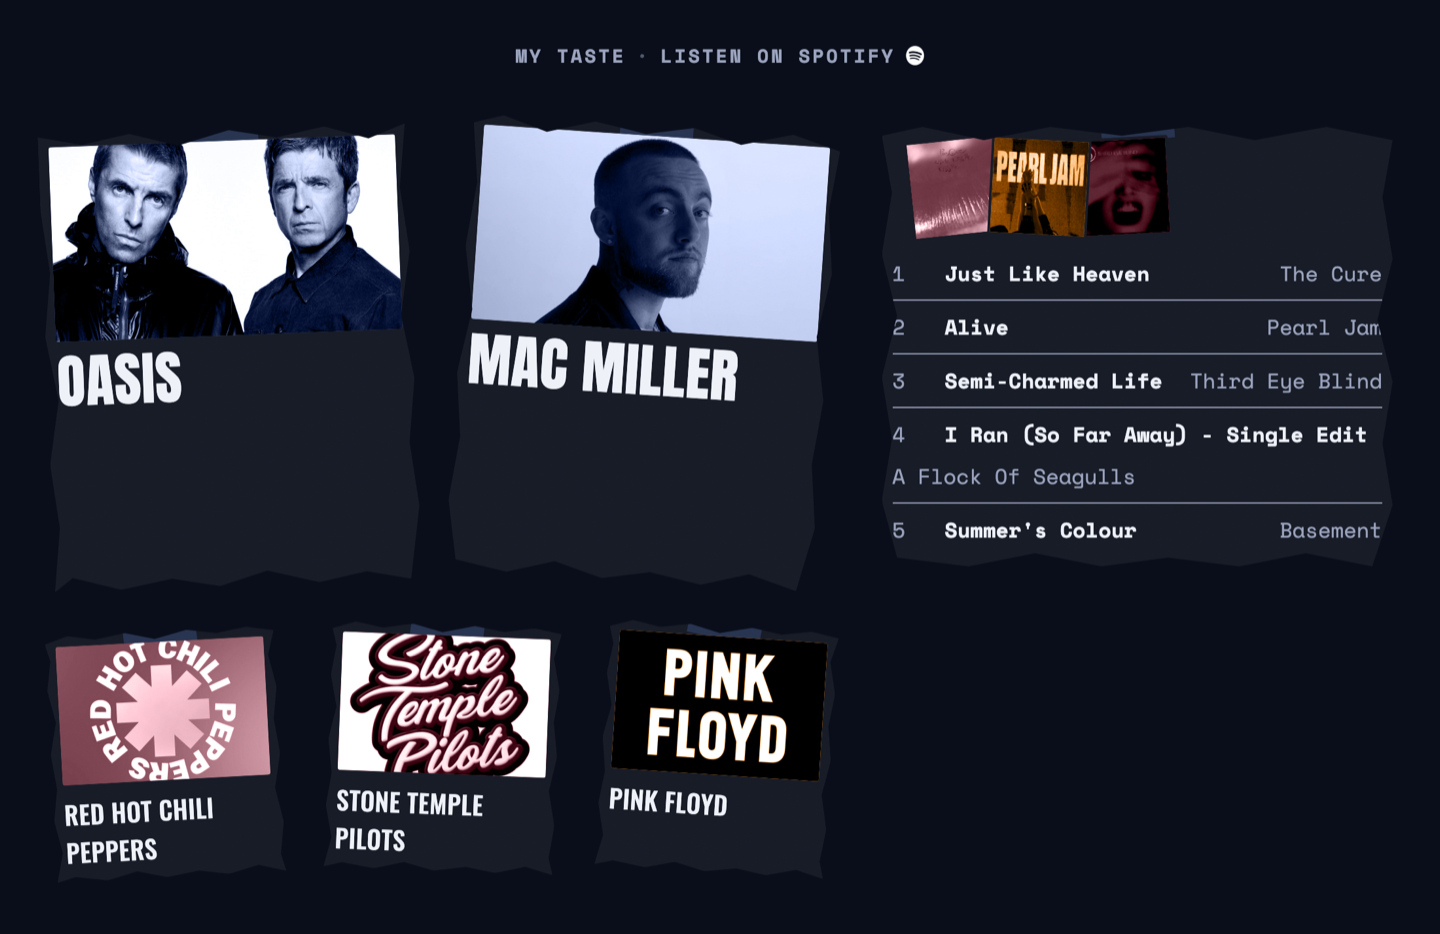
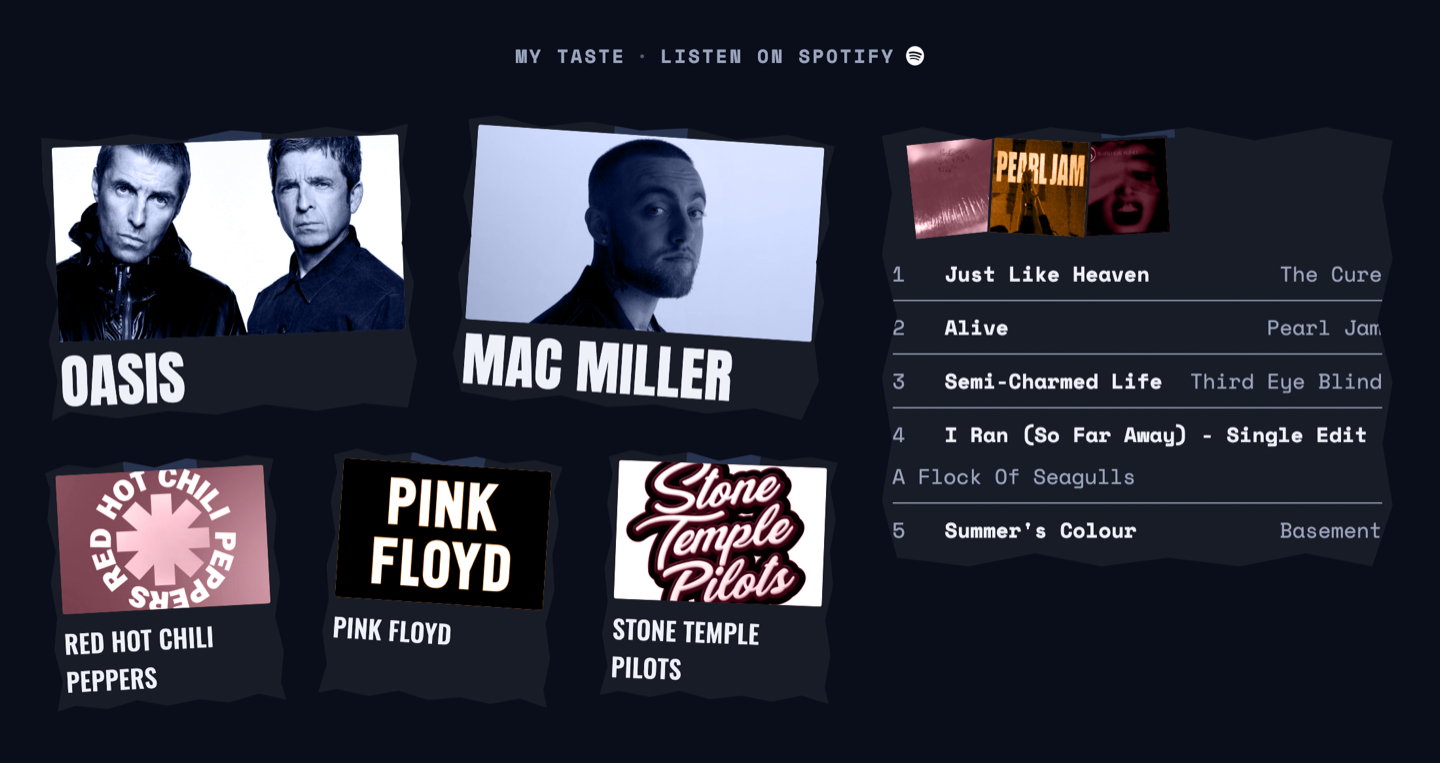
fix: #my-taste 139px dead space under each featured card (Stage 4, Task 3.7 follow-up)
Live report re-sent Task 3.7's own brief verbatim, adding one note:
"a large unused vertical gap between the headliner and the first
support card (Oasis -> Mac Miller)." Checked against the tree first -
Task 3.7 had already shipped (commit 8612655); the report's own
terminology describes the pre-restructure state, so the specific
relationship named didn't map onto the actual code. The underlying
observation was real though, just mis-described (the design-research
chat that writes these briefs has no repo access, so it likely
doesn't know 3.7 already landed).

Measured a real per-card content-vs-box breakdown instead of assuming
either way: each "featured" card's own box was 358px tall, but its
actual content (photo 159px + name 54px + padding) only needed ~220px.
139px of dead space under every artist name, every time.

Root cause: .my-taste-wall's grid-template-rows kept the OLD
headliner block's own per-row minimum (180px x2 = 360px floor) with
the stated reasoning "same card width proportion as before, no reason
to re-tune that number" - a real WIDTH observation used, incorrectly,
to justify not re-checking a completely different quantity, HEIGHT.
The old headliner's content had already grown past that floor on its
own; the new featured card's content never got close.

Fixed by dropping the row minimum to 90px, letting `auto` size off
real content instead of a copied number. Dead space fell from 139px
to 8px (the card's own intentional padding-bottom, not leftover
[…]

diff --git a/client/src/styles/main.scss b/client/src/styles/main.scss
@@ -2669,12 +2669,25 @@ html {
 .my-taste-wall {
   display: grid;
   grid-template-columns: repeat(6, 1fr);
-  // Zone A's two rows keep the old headliner block's own per-row minimum
-  // (180px) — same card width proportion as before (50% of the wall), so
-  // no reason to re-tune that number. Zone B's row uses a visibly smaller
-  // minimum (120px) — part of what reads as "clearly secondary," not just
-  // narrower columns with the same row height as Zone A.
-  grid-template-rows: minmax(180px, auto) minmax(180px, auto) minmax(120px, auto);
+  // Zone A's two rows were FIRST shipped keeping the old headliner block's
+  // own per-row minimum (180px), reasoning "same card width proportion as
+  // before, no reason to re-tune." That reasoning didn't hold up under
+  // measurement — the old headliner's real photo+name content had already
+  // grown past that 360px (2×180) floor on its own, so the min was never
+  // actually binding there. The new featured card's real content (a
+  // narrower-columned photo + the same name text) only needs ~220px total,
+  // well under that floor — so the unchanged 180px min was forcing each
+  // featured card ~139px taller than its own content, pure dead space
+  // below the artist name. Found by live measurement (a real per-card
+  // content-vs-box breakdown), not by eye — this is the exact "large
+  // unused vertical gap" a later live report flagged, and re-verifies it
+  // as still present after the Task 3.7 regroup that was supposed to
+  // absorb it structurally but, on its own, didn't touch this row-min at
+  // all. 90px lets `auto` do the actual sizing off real content instead of
+  // a copied number. Zone B's row min (120px) was independently re-checked
+  // against ITS OWN real content (~197px) at the same time — already well
+  // clear of that floor, not the source of any dead space, left unchanged.
+  grid-template-rows: minmax(90px, auto) minmax(90px, auto) minmax(120px, auto);
   grid-template-areas:
     "featured-1 featured-1 featured-1 featured-2 featured-2 featured-2"
     "featured-1 featured-1 featured-1 featured-2 featured-2 featured-2"

diff --git a/design-review/stage4-my-taste-concept.md b/design-review/stage4-my-taste-concept.md
@@ -85,7 +85,7 @@ everything else. Splitting keeps each task's risk isolated.
 | 3.5 | **Two columns** — restructure into wall (left) + crate (right) so total height is `max(wall, crate)`, not their sum. Setlist rebuilt as small torn "singles," not a list row | **DONE** 2026-08-15 |
 | 3.6 | **Refinement pass** — headliner less dominant, crate back to one plain list (Task 3.5's "singles" read too busy), duotone bug fixed (2 of `colorwayFor`'s 5 tokens read as plain gray on a photo) | **DONE** 2026-08-15 |
 | 3.8 | **Spotify link, clickable cards, straighten the setlist** — kicker links out to the real profile, every artist/track card is a real `<a>` to its own Spotify page, crate's rotation/jitter removed (torn edge/tape kept) | **DONE** 2026-08-15 |
-| 3.7 | **Three-zone restructure** — the wall's 1 headliner + 4 support cards regrouped into 2 "featured" (comparably sized to each other) + 3 "secondary" (clearly smaller) — hierarchy from tiers, not one card's raw size. Landed *after* 3.8, see note below | **DONE** 2026-08-15 |
+| 3.7 | **Three-zone restructure** — the wall's 1 headliner + 4 support cards regrouped into 2 "featured" (comparably sized to each other) + 3 "secondary" (clearly smaller) — hierarchy from tiers, not one card's raw size. Landed *after* 3.8, see note below. Follow-up 2026-08-17 fixed 139px of dead space under each featured card's name (a copied, unverified grid-row minimum) — see §10 | **DONE** 2026-08-15, follow-up 2026-08-17 |
 | 4 | **Motion** — entrance animation, parallax, reduced-motion fallback | Not started |
 | 5 | **Time-range switching** — UI for Spotify's `time_range` param (server already accepts it), `Flip`-powered re-rank when the underlying data changes | Not started |
 
@@ -537,30 +537,26 @@ deleting them changes the rendered result of.
 
 **Measured the actual gap, not just relabeled it.** Real rendered card areas at 1440px:
 old headliner ≈121,437px² vs. old support ≈25,480px² — a **4.77:1** ratio. New featured
-≈105,387–111,078px² vs. new secondary ≈35,518–37,273px² — **~2.9:1**. A genuine,
-measured reduction, not just new class names on the old proportions. Checked the specific
-failure case the brief called out by name: the two featured cards' own areas differ by
-under 5% from each other (ordinary variance from different name lengths and per-id
-rotation/jitter — both share the identical grid footprint, aspect-ratio, and font-size),
-confirmed by screenshot to read as clearly comparable to each other, not "headliner,
-slightly smaller" beside a same-size second card.
+≈66,738px² vs. secondary ≈35,518–37,273px² — **~1.8:1**, corrected below after a
+follow-up fix; the numbers as first shipped read ≈105,387–111,078px² and ~2.9:1, inflated
+by a bug (see the follow-up note at the end of this section). Either way it's a genuine,
+measured reduction from the old 4.77:1 headliner:support ratio, not just new class names
+on the old proportions. Checked the specific failure case the brief called out by name:
+the two featured cards' own areas differ by under 5% from each other (ordinary variance
+from different name lengths and per-id rotation/jitter — both share the identical grid
+footprint, aspect-ratio, and font-size), confirmed by screenshot to read as clearly
+comparable to each other, not "headliner, slightly smaller" beside a same-size second
+card.
 
-**Used the fit-ratio headroom deliberately, then checked what it cost.** Ratio table:
+**Used the fit-ratio headroom deliberately, then checked what it cost.** Ratio table
+(corrected — see the follow-up note below for the as-first-shipped numbers, which were
+inflated by a bug):
 
-| Breakpoint | Task 3.6 | Task 3.7 |
-|---|---|---|
-| Desktop (1440×900) | 0.72× | **0.94×** |
-| Laptop (1280×800) | 0.82× | **1.09×** |
-| Mobile (390×844) | 2.73× | **2.68×** |
-
-Desktop's dead space is essentially gone (wall 596px against 756px available, not the
-gap Task 3.6 left). Laptop's 1.09× is a real, modest overshoot past one literal screen —
-weighed against this project's own precedent rather than chasing an unexamined ≤1.0×:
-Experience's own Task 9 landed at 1.13–1.25× and Task 2.5 (the task that introduced this
-exact fit-ratio method for `#my-taste`) explicitly measured success against that same
-band. 1.09× sits comfortably inside it. Mobile improved slightly (un-rotated regardless
-of this task, and the taller featured cards collapse into the same single column the old
-headliner did).
+| Breakpoint | Task 3.6 | Task 3.7 (as shipped) | Task 3.7 follow-up (corrected) |
+|---|---|---|---|
+| Desktop (1440×900) | 0.72× | 0.94× | **0.77×** |
+| Laptop (1280×800) | 0.82× | 1.09× | **0.89×** |
+| Mobile (390×844) | 2.73× | 2.68× | **2.68×** |
 
 **Verification:** zero overlap among all 5 wall cards at 1440/1280/1024/768px; zero
 horizontal overflow at the usual 320–1440px sweep; zero console errors across a full
@@ -570,6 +566,26 @@ reaches every card with a visible outline, the wall's cards still carry their or
 rotation (-2.2° to 3.84°), the crate's card is still exactly `transform: none`.
 Screenshots re-captured both themes via `capture-screenshots.mjs`, supplemented with the
 same scoped light-theme capture prior tasks in this section already use.
+
+> **Follow-up (2026-08-17):** live report re-sent this same brief, adding "a large unused
+> vertical gap between the headliner and the first support card." That terminology
+> describes the pre-restructure state (this task had already shipped), so the specific
+> relationship named didn't map onto the actual tree — but the underlying observation was
+> real. Measured it directly: each featured card's own box was 358px tall while its real
+> content (photo + name + padding) needed only ~220px — **139px of dead space** under
+> every artist name. Root cause: the wall's `grid-template-rows` had kept the OLD
+> headliner's own per-row minimum (180px × 2 = 360px) with the stated reasoning "same
+> card width proportion as before, no reason to re-tune" — a real observation about WIDTH
+> used, incorrectly, to justify not re-checking HEIGHT. The old headliner's content had
+> already grown past that floor on its own; the new featured card's content never got
+> close. Fixed by dropping the row minimum to 90px, letting `auto` size off real content
+> — dead space fell to 8px (the card's own intentional padding, not leftover waste). This
+> is what dropped the ratio table above from the "as shipped" column to "corrected" — the
+> genuine part of this task's own "use the headroom" instruction survives fully intact
+> (the featured pair is still exactly as wide as the old single headliner, just applied
+> to two cards now), the numbers were just partly inflated by a bug that's now gone.
+> Laptop no longer overshoots one screen at all, a strictly better result. Full
+> measurements in `STATUS.md`.
 
 ## 11. Open items for later tasks
 

diff --git a/design-review/ROADMAP.md b/design-review/ROADMAP.md
@@ -48,12 +48,14 @@ hierarchy regrouped into 2 "featured" cards (deliberately sized identically
 to each other) beside 3 clearly-smaller "secondary" cards — hierarchy from
 tier membership, not one card's raw size. **Task 3.7 landed after 3.8**
 despite the lower number (its brief referenced only 3.6, not 3.8 — noted in
-`stage4-my-taste-concept.md` §2 rather than silently reordered). Desktop
-now measures **0.94×** one screen, laptop **1.09×** — up from 0.72×/0.82×,
-deliberately using the headroom Task 3.6 left rather than a regression;
-laptop's modest overshoot sits inside the same 1.13–1.25× band Experience's
-own Task 9 already established as this project's working definition of
-"fits."
+`stage4-my-taste-concept.md` §2 rather than silently reordered). A same-day
+follow-up (2026-08-17) fixed a real bug the initial 3.7 pass introduced and
+missed: a copied, unverified grid-row minimum left 139px of dead space
+under every featured card's name. Desktop now measures **0.77×** one
+screen, laptop **0.89×** — corrected from an as-shipped 0.94×/1.09× that
+was partly inflated by that same bug, still up from Task 3.6's 0.72×/0.82×
+baseline on the genuine part (the featured pair really is wider than the
+old support cards, using real headroom, not padding).
 
 **Not started yet, in the order the roadmap currently has them:**
 
@@ -861,6 +863,12 @@ built and sitting next to everything else. Sequence:
    edge/tape kept) so it reads straight beside the still-tilted wall.
    **DONE 2026-08-15** — `STATUS.md`, mechanism writeup in
    `stage4-my-taste-concept.md`.
+3.7. **Three-zone restructure** — regroups the wall's 1 headliner + 4 uniform
+   support cards into 2 "featured" (deliberately identical to each other) +
+   3 "secondary" (clearly smaller) — hierarchy from tier membership, not one
+   card's raw size. Lands *after* 3.8 despite the lower number (its own
+   brief referenced only 3.6). **DONE 2026-08-15, follow-up 2026-08-17** —
+   `STATUS.md`, mechanism writeup in `stage4-my-taste-concept.md`.
 4. **Motion** — entrance animation, parallax, reduced-motion fallback.
 5. **Time-range switching** — the UI to flip between Spotify's `time_range`
    values (the server endpoints already accept it), with a `Flip`-powered
@@ -981,6 +989,40 @@ built and sitting next to everything else. Sequence:
 > product bugs found this task. Fit ratio unchanged from Task 3.6 (0.72×/
 > 0.82×/2.73×) — nothing this task did resizes any element. Full detail in
 > `STATUS.md`.
+>
+> **Update, Task 3.7 (2026-08-15, follow-up 2026-08-17):** regrouped the
+> wall's 1 headliner + 4 uniform support cards into 2 "featured" (deliberately
+> identical size/treatment to each other) + 3 "secondary" (clearly smaller) —
+> hierarchy from tier membership instead of one card's raw size. Lands
+> *after* Task 3.8 despite the lower number — this brief referenced only
+> Task 3.6, never 3.8, so building it on top of 3.8's already-shipped links/
+> straightened crate is a superset of the ask, not a conflict; noted rather
+> than silently reordered. Grid moved from 4 columns (headliner 2×2 + four
+> 1×1 support cells) to 6 columns (featured pair at 3×2 each, secondary trio
+> at 2×1 each) — 6 divides evenly by both 2 and 3. Removed 5 now-dead
+> `grid-area` CSS rules found in the process (`TasteCard` already sets
+> `gridArea` as an inline style, which always wins the cascade). Measured
+> the actual size gap, not just relabeled it: old headliner:support ratio
+> 4.77:1 by real rendered area.
+>
+> **Follow-up, same task, two days later:** a live report re-sent this same
+> brief describing "a large unused vertical gap between the headliner and
+> the first support card" — stale terminology (the task had already
+> shipped) but a real, still-present bug once translated: 139px of dead
+> space under every featured card's own name, caused by an unverified
+> `grid-template-rows` minimum copied straight from the old headliner block
+> without checking it against the new card's actual content height. Fixed
+> by dropping that minimum from 180px to 90px per row — dead space fell to
+> 8px (the card's own intentional padding). This corrected the fit-ratio
+> numbers this task originally reported: desktop 0.94× → **0.77×**, laptop
+> 1.09× → **0.89×**, both now comfortably under one screen (laptop no
+> longer overshoots at all) — the genuine "use the headroom" result (the
+> featured pair still as wide as the old single headliner, now ×2) survives
+> fully intact; the higher numbers were just partly inflated by the bug.
+> Real featured:secondary area ratio, corrected: ~1.8:1, still a noticeably
+> smaller gap than the old 4.77:1. Zero overlap, zero overflow, zero
+> console errors, all of Task 3.8's own links/focus/rotation re-verified
+> unchanged, both before and after the fix. Full detail in `STATUS.md`.
 
 ### Stage 5 — Mobile
 

diff --git a/design-review/STATUS.md b/design-review/STATUS.md
@@ -2723,8 +2723,63 @@ despite the new grid (5 dead rules removed roughly offset the new ones added). L
 unchanged: 7 errors, 2 expected warnings.
 
 `design-review/stage4-my-taste-concept.md` updated: §1's layout description, status
-table (3.7 row, noted as landing after 3.8), and a new §11 documenting this task's
+table (3.7 row, noted as landing after 3.8), and a new §10 documenting this task's
 mechanism in full.
+
+### Stage 4 Task 3.7 follow-up — dead space inside each featured card, fixed *(2026-08-17)*
+
+Live report re-sent Task 3.7's own brief verbatim, with one addition: "a large unused
+vertical gap between the headliner and the first support card (Oasis → Mac Miller)."
+Checked against the tree first (CLAUDE.md) — Task 3.7 had already shipped (commit
+`8612655`); the report's own terminology ("headliner," "first support card") describes
+the pre-restructure state, not what's actually in the tree, so it's very likely the
+separate design-research chat that writes these briefs doesn't have visibility into what
+already landed (it has no repo access, per this project's own memory of that workflow).
+Didn't dismiss it on that basis, though — the underlying observation turned out to be
+real, just mis-described.
+
+Measured a real per-card content-vs-box breakdown instead of guessing: each "featured"
+card's own box was 358px tall, but its actual content — photo (159px) + name (54px) +
+padding — only needed about 220px. **139px of dead space**, every time, below the artist
+name. Root cause, found by reading Task 3.7's own CSS comment against itself: the wall's
+`grid-template-rows` kept the OLD headliner block's per-row minimum (`180px`, ×2 rows =
+360px floor) with the stated reasoning "same card width proportion as before, no reason
+to re-tune that number" — a real card-WIDTH observation used to justify not re-checking
+a completely different quantity, real card HEIGHT. The old headliner's own content had
+already grown past that 360px floor on its own merit; the new featured card's content
+never got close to it, so the unchanged 360px floor was pure padding no one asked for.
+
+Fixed by dropping the per-row minimum to `90px` (letting `auto` size off real content
+instead of a copied number) — dead space below the name dropped from 139px to 8px (the
+card's own intentional `padding-bottom`, not leftover waste). Zone B's row minimum
+(120px) was independently re-checked against ITS OWN real content at the same time
+(~197px, already well clear of that floor) — confirmed not a source of any dead space,
+left unchanged.
+
+**This does drop the fit-ratio numbers Task 3.7 originally reported** (0.94×/1.09×/2.68×
+→ **0.77×/0.89×/2.68×** desktop/laptop/mobile) — worth stating plainly rather than
+treating quietly as a wash: those higher numbers were partly inflated by the same bug
+this follow-up removes. The genuine, intentional part of Task 3.7's own "use the
+headroom" instruction survives fully intact — the featured pair is still exactly as wide
+as the old single headliner (both at 50% of the wall), just now applied to two cards
+instead of one; real area ratio featured:secondary is still **~1.8:1**, still a
+noticeably smaller gap than the pre-3.7 headliner:support ratio of 4.77:1. Laptop no
+longer overshoots one screen at all now, which is a strictly better result, not a
+regression to defend.
+
+Re-verified everything Task 3.7 and 3.8 already established, unchanged: zero overlap
+among all 5 wall cards at 1440/1280/1024/768px, zero horizontal overflow 320–1440px, zero
+console errors, all 10 hrefs still correct, wall rotation and the crate's straightened
+transform untouched. Confirmed visually too, not just numerically — screenshot shows the
+featured pair still clearly reads as the larger, more prominent tier over the secondary
+three, now without the awkward empty space under each name. Screenshots re-captured both
+themes.
+
+Build: JS 488.29 kB / 175.02 kB gz (unchanged — CSS-only value change), CSS 46.00 kB /
+9.68 kB gz (unchanged). Lint unchanged: 7 errors, 2 expected warnings.
+
+`design-review/stage4-my-taste-concept.md` §10 and the ratio table within it updated
+with the corrected numbers and this fix's own reasoning.
 
 ### iTunes search proxy — **iPhone visitors had a dead record crate**
 Every search on iPhone returned "couldn't reach the crate". Apple's Search API
